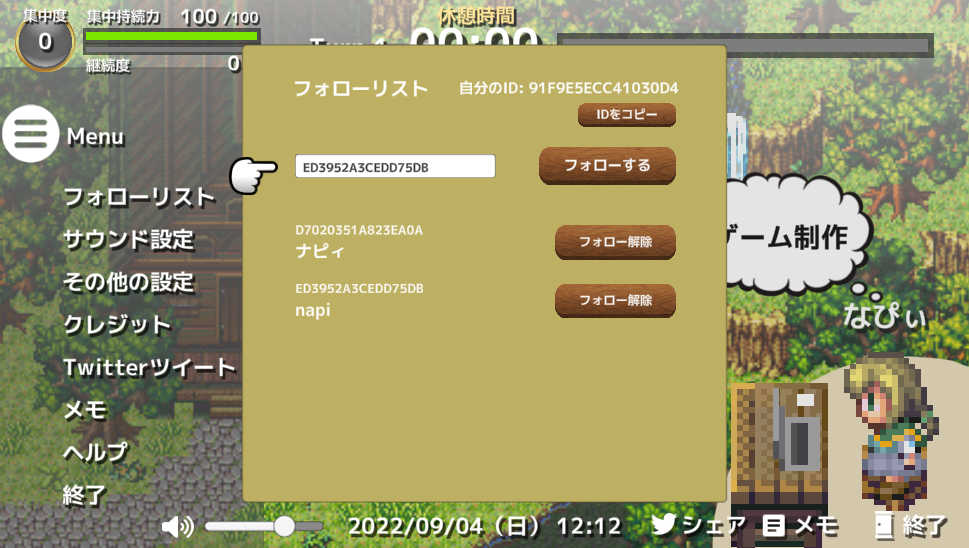
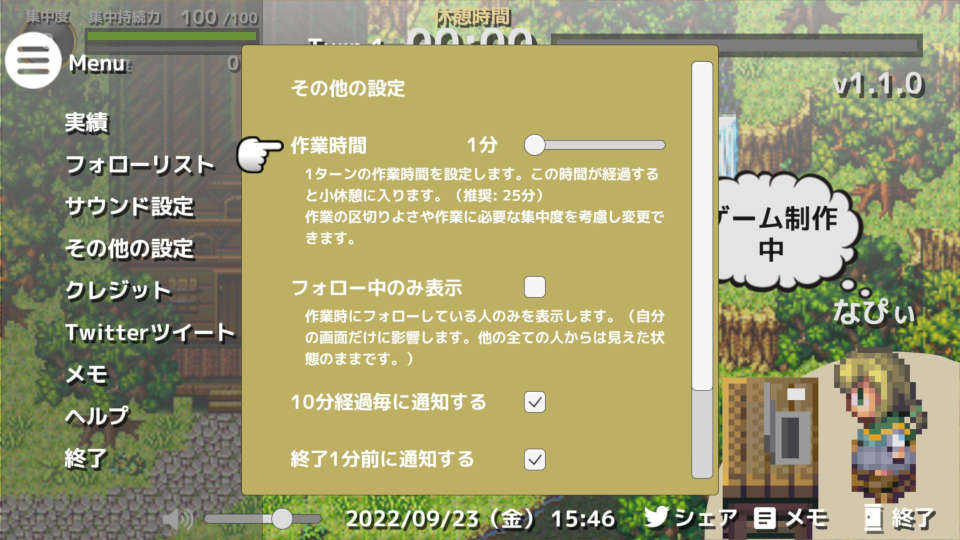
update

diff --git a/workcamponline/help.html b/workcamponline/help.html
@@ -116,6 +116,8 @@
             <div class="wrapper">
                 <h2 class="mediafixfont">メニュー</h2>
                 <image src="image/help/guidfollow.jpg"></image>
+                <h3>実績</h3>
+                <p>過去の作業履歴と実績の確認できます。1日に1度でも作業を完遂するとメダルを獲得します。また、毎日継続してメダルを獲得すると継続記録が表示されます。</p>
                 <h3>フォローリスト</h3>
                 <p>他のユーザーをフォローする事ができます。その他の設定で「フォロー中のみ表示」を選択時フォローしている人のみが表示されます。（自分の表示が変わるだけであなたをフォローしていない他の人にあなたのアバターが表示されなくなるわけではありません。）</p>
                 <div class="helpgrid">
@@ -168,6 +170,23 @@
                 <p>オンラインヘルプを開きます。</p>
                 <h3>終了</h3>
                 <p>アプリケーションを終了します。作業中は退室ボタンに変化します。</p>
+            </div>
+        </section>
+        <section id="guidother" class="guid">
+            <div class="guidback"></div>
+            <div class="wrapper">
+                <h3>バックアップ・データ移行</h3>
+                <p>作業合宿オンラインのデータは以下の場所に保存されています。<br>
+                    <br>
+                    C:\Users\ユーザー名\AppData\LocalLow\Napiiey\<br>
+                    （ユーザー名の部分はあなたのWindowsのユーザー名となります）<br>
+                    <br>
+                    メモや作業履歴のデータはサーバーに保存されません。このフォルダをバックアップする事でデータを保持する事ができます。<br>
+                    また、このフォルダのデータを新しいPCの同じフォルダに移す事で今までと同じIDでログインする事ができます。<br>
+                    （フォルダのコピーはアプリケーションを閉じた状態で行ってください。）<br>
+                    <br>
+                    バックアップを取っていなかった場合等はお手数ですが新しいIDを作り直して頂きますようお願いします。
+                </p>
             </div>
         </section>
     </main>

diff --git a/workcamponline/index.html b/workcamponline/index.html
@@ -35,7 +35,7 @@
             <div id="topwrapper">
                 <div id="top_description">作業が捗る!オンライン作業部屋アプリ</div>
                 <div id="titlelogo"></div>
-                <a id="download_button" class="link-gray" href="https://github.com/napiiey/workcamponline/releases/download/v1.0.0/WorkCampOnline_v1.0.0.exe">
+                <a id="download_button" class="link-gray" href="https://github.com/napiiey/workcamponline/releases/download/v1.1.0/WorkCampOnline_v1.1.0.exe">
                     ダウンロード (Windows 64bit)
                 </a>
             </div>
@@ -105,7 +105,7 @@
             <div class="inner">
                 <h2>動作環境</h2>
                 <p>
-                    OS: Windows 7 (SP1以上), Windows 10 and Windows 11, 64-bit版のみ
+                    OS: Windows 7 SP1以降 （64bit版のみ）
                 </p>
             </div>
         </section>
@@ -113,6 +113,7 @@
             <div class="inner fadein fade fast">
                 <h2>ダウンロード</h2>
                 <p>
+                    Windows (64bit版) ver 1.1.0　<a href="https://github.com/napiiey/workcamponline/releases/download/v1.1.0/WorkCampOnline_v1.1.0.exe">Download</a><br>
                     Windows (64bit版) ver 1.0.0　<a href="https://github.com/napiiey/workcamponline/releases/download/v1.0.0/WorkCampOnline_v1.0.0.exe">Download</a>
                 </p>
             </div>

diff --git a/workcamponline/workcamp.js b/workcamponline/workcamp.js
@@ -72,3 +72,18 @@ const leftFadeIn = function() {
         // }
     }
 }
+
+//OS判定
+const userAgent = window.navigator.userAgent.toLowerCase();
+
+if(userAgent.indexOf("windows nt") !== -1) {
+  console.log("「Microsoft Windows」をお使いですね!");
+} else if(userAgent.indexOf("android") !== -1) {
+  console.log("「Android」をお使いですね!");
+} else if(userAgent.indexOf("iphone") !== -1 || userAgent.indexOf("ipad") !== -1) {
+  console.log("「iOS」をお使いですね!");
+} else if(userAgent.indexOf("mac os x") !== -1) {
+  console.log("「macOS」をお使いですね!");
+} else {
+  console.log("何をお使いなのですか?");
+}

diff --git a/workcamponline/workcamp.css b/workcamponline/workcamp.css
@@ -646,6 +646,9 @@ header {
 #guidmenu {
     background-image: url("../workcamponline/image/fieldback.jpg");
 }
+#guidother {
+    background-image: url("../workcamponline/image/roomback.jpg");
+}
 
 #guidavatar .wrapper {
     width: 720px;
@@ -654,6 +657,9 @@ header {
     width: 720px;
 }
 #guidmenu .wrapper {
+    width: 720px;
+}
+#guidother .wrapper {
     width: 720px;
 }
 
